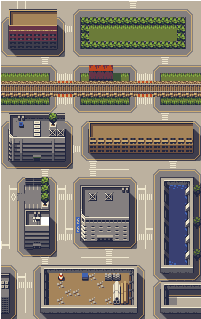
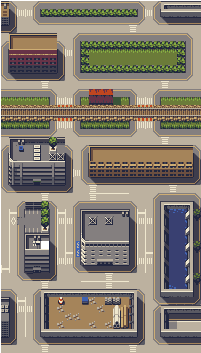
1월 11일 오전 개발중

diff --git a/Assets/Scripts/BG_Ctrl.cs b/Assets/Scripts/BG_Ctrl.cs
@@ -1,0 +1,23 @@
+using System.Collections;
+using System.Collections.Generic;
+using UnityEngine;
+
+public class BG_Ctrl : MonoBehaviour
+{
+    public float ScrollSpeed = 0.2f;
+    float Offset = 0.01f;
+    MeshRenderer m_Renderer;
+
+    // Start is called before the first frame update
+    void Start()
+    {
+        m_Renderer = GetComponent<MeshRenderer>();
+    }
+
+    // Update is called once per frame
+    void Update()
+    {
+        Offset += Time.deltaTime * ScrollSpeed;
+        m_Renderer.material.mainTextureOffset = new Vector2(0, Offset);
+    }
+}
